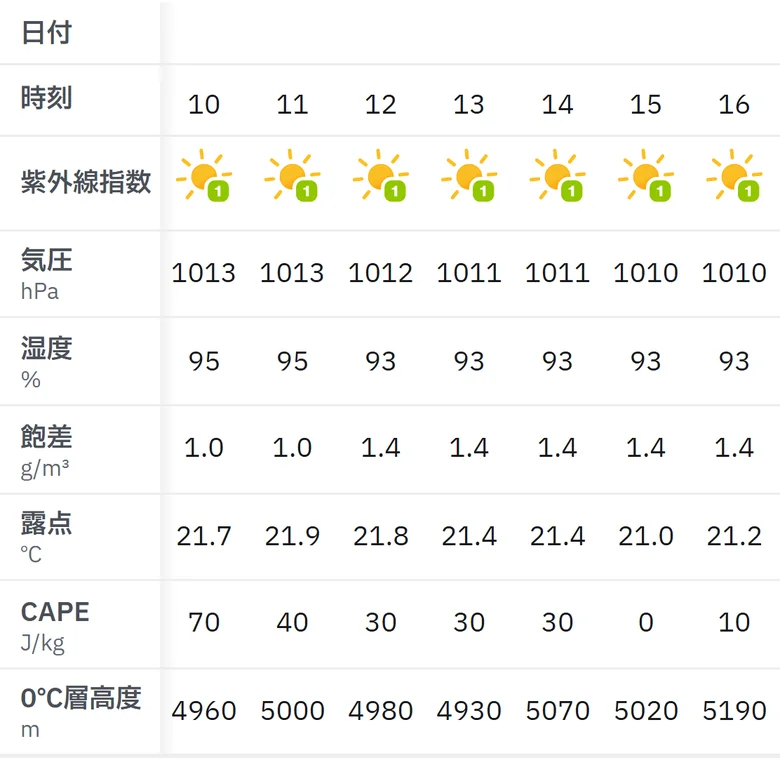
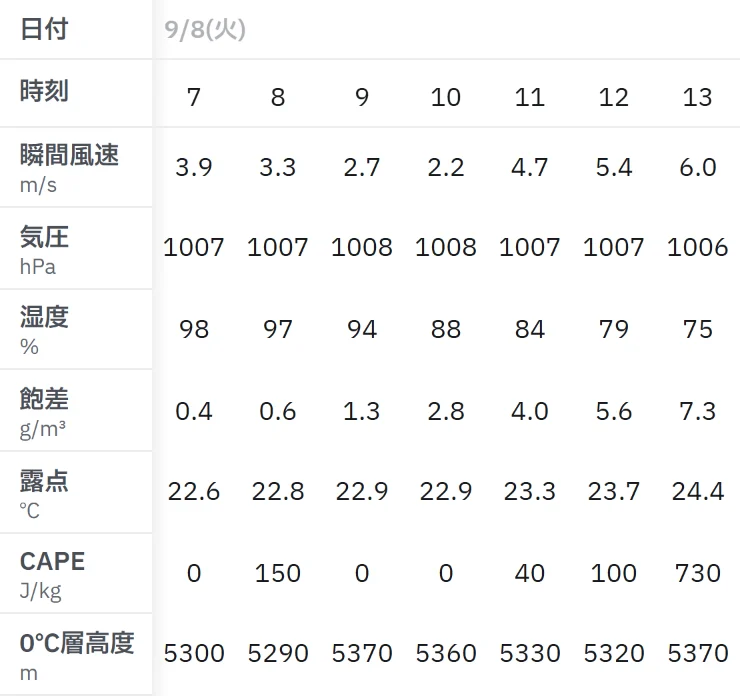
chore(lp): 季節のあしどりの帯と時間別の表の画面写真を撮り直す
- 帯: 今の見た目（2行）で、画面の日付を 2026-10-05 に固定して撮影（勘の章と同じ 18日・12日遅い）
- 時間別の表: 東京 2026/9/8（雨のち晴れ）7〜13時。おすすめの項目（色の付く行を含む）とそのほかの項目の2枚に分ける。2枚目は景色を外す・7列ちょうどで切り抜く
- 撮影スクリプトに ONLY=band・FIXED_NOW・COLS を追加

diff --git a/src/components/lp/MoyoChapter.tsx b/src/components/lp/MoyoChapter.tsx
@@ -94,12 +94,12 @@ export function MoyoChapter() {
       </div>
       <div ref={hourlyRef} className={hourlySeen || reduced ? 'lp-moyo__hourly is-in' : 'lp-moyo__hourly'}>
         <p className="lp-moyo__hourlylead"><span className="lp-phrase">1時間ごとの空がわかる。</span><span className="lp-phrase">作業が決まる。</span></p>
-        {/* 全項目を「作業の目安」と「くわしいデータ」の2枚に分けて小さく並べる（スマホは横にめくる） */}
+        {/* 全項目を「おすすめの項目（色の付く行を含む）」と「そのほかの項目」の2枚に分けて小さく並べる（スマホは横にめくる） */}
         <div className="lp-moyo__tables">
           <figure className="lp-moyo__table">
             {/* 表の中の「カッパ！」などと同じ、3mmまでの雨のことばを札にして添える */}
             <div className="lp-moyo__tablewrap">
-              <Shot src="/lp/moyo-hourly-work.webp" alt="時間別の表（作業の目安）— 天気・気温・降水確率・降水量・風速・瞬間風速・風向き" width={780} height={869} />
+              <Shot src="/lp/moyo-hourly-work.webp" alt="時間別の表（おすすめの項目）— 天気・気温・降水確率・降水量・日照時間・日射量・紫外線指数・風速・風向き" width={740} height={968} />
               <ul className="lp-moyo__rain" aria-label="3mmまでの雨の言い方">
                 {RAIN_WORDS.map((w, i) => <li key={w} style={{ '--i': i } as CSSProperties}>{w}</li>)}
               </ul>
@@ -108,11 +108,11 @@ export function MoyoChapter() {
             <p className="lp-moyo__rainnote">3mmまでの雨は、3段階のことばで。</p>
           </figure>
           <figure className="lp-moyo__table">
-            <Shot src="/lp/moyo-hourly-data.webp" alt="時間別の表（くわしいデータ）— 紫外線指数・気圧・湿度・飽差・露点・CAPE・0℃層高度" width={780} height={760} />
+            <Shot src="/lp/moyo-hourly-data.webp" alt="時間別の表（そのほかの項目）— 瞬間風速・気圧・湿度・飽差・露点・CAPE・0℃層高度" width={740} height={696} />
             <figcaption>専門的な情報も</figcaption>
           </figure>
         </div>
-        <p className="lp-moyo__tablenote">画面は東京・2026年9月20日（雨の日）の実績。</p>
+        <p className="lp-moyo__tablenote">画面は東京・2026年9月8日（雨のち晴れ）の実績。</p>
       </div>
     </section>
   );

diff --git a/src/components/lp/chapters.test.tsx b/src/components/lp/chapters.test.tsx
@@ -100,7 +100,7 @@ describe('MoyoChapter', () => {
     expect(container.querySelector('.lp-moyo__device .lp-moyo__rain')).toBeNull();
     expect(container.querySelector('.lp-moyo__hourlylead')!.textContent).toBe('1時間ごとの空がわかる。作業が決まる。');
     expect(screen.getAllByRole('img', { name: /時間別の表/ })).toHaveLength(2);
-    expect(screen.getByText('画面は東京・2026年9月20日（雨の日）の実績。')).toBeTruthy();
+    expect(screen.getByText('画面は東京・2026年9月8日（雨のち晴れ）の実績。')).toBeTruthy();
   });
   it('押すと写真と説明が一緒に切り替わり、GA4 に記録する（動きを減らす設定でも押せる）', () => {
     const { container } = render(<MoyoChapter />);

diff --git a/src/components/lp/SekkiChapter.tsx b/src/components/lp/SekkiChapter.tsx
@@ -79,7 +79,7 @@ export function SekkiChapter() {
       </div>
       <div className="lp-sekki__band">
         <p className="lp-sekki__bandlead">毎日、トップに一行で。</p>
-        <Shot variant="band" src="/lp/season-band.webp" alt="季節のあしどり — 積算温度 去年より18日遅い・5年平均より12日遅い" width={780} height={106} />
+        <Shot variant="band" src="/lp/season-band.webp" alt="季節のあしどり — 積算温度 去年より18日遅い・5年平均より12日遅い" width={780} height={140} />
       </div>
     </section>
   );
